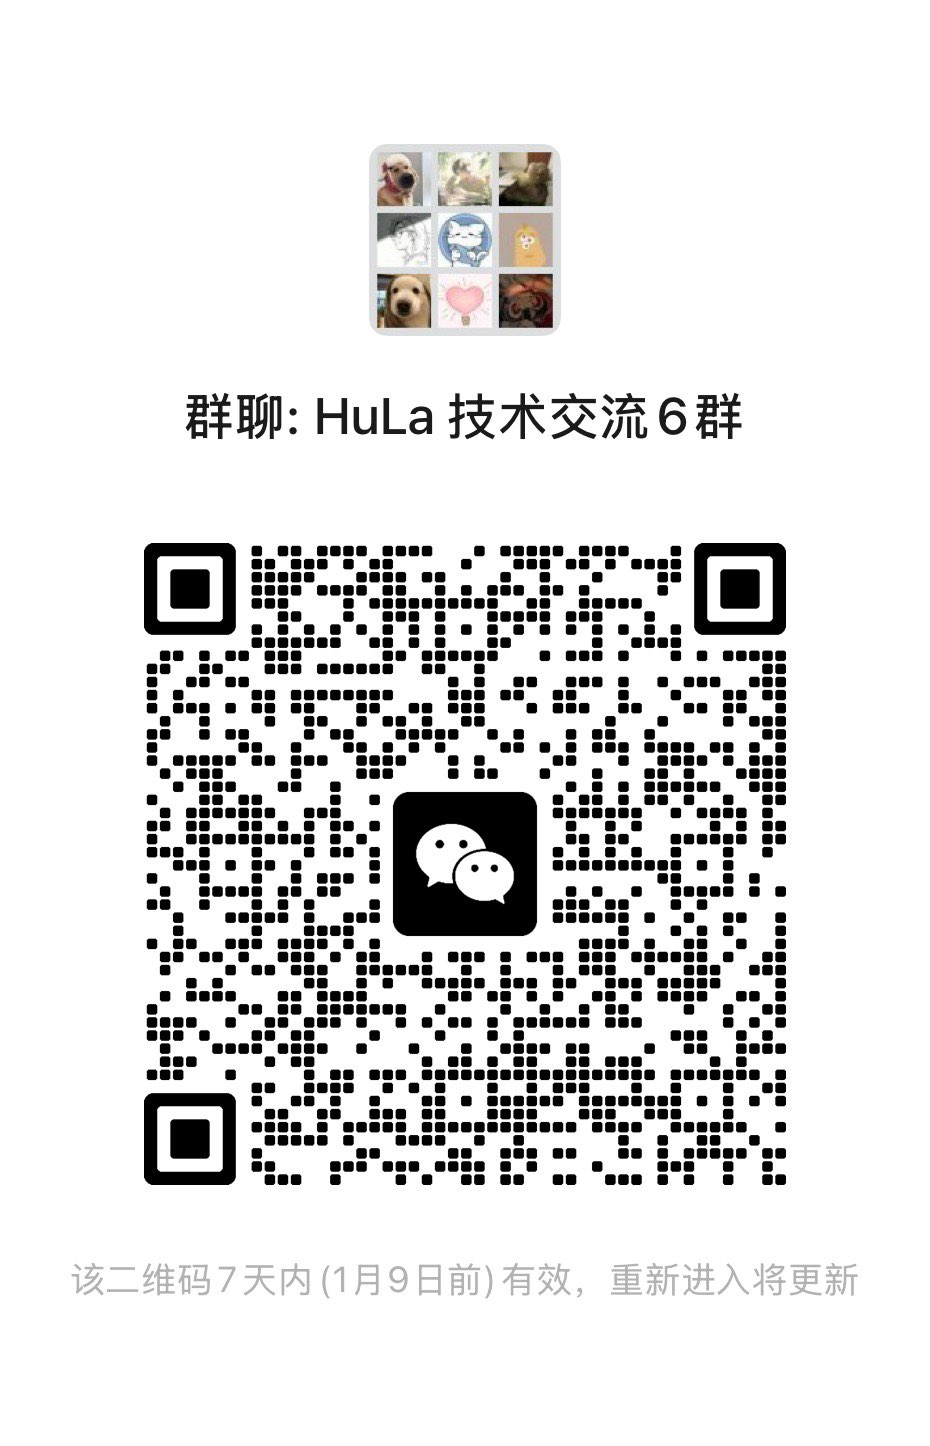
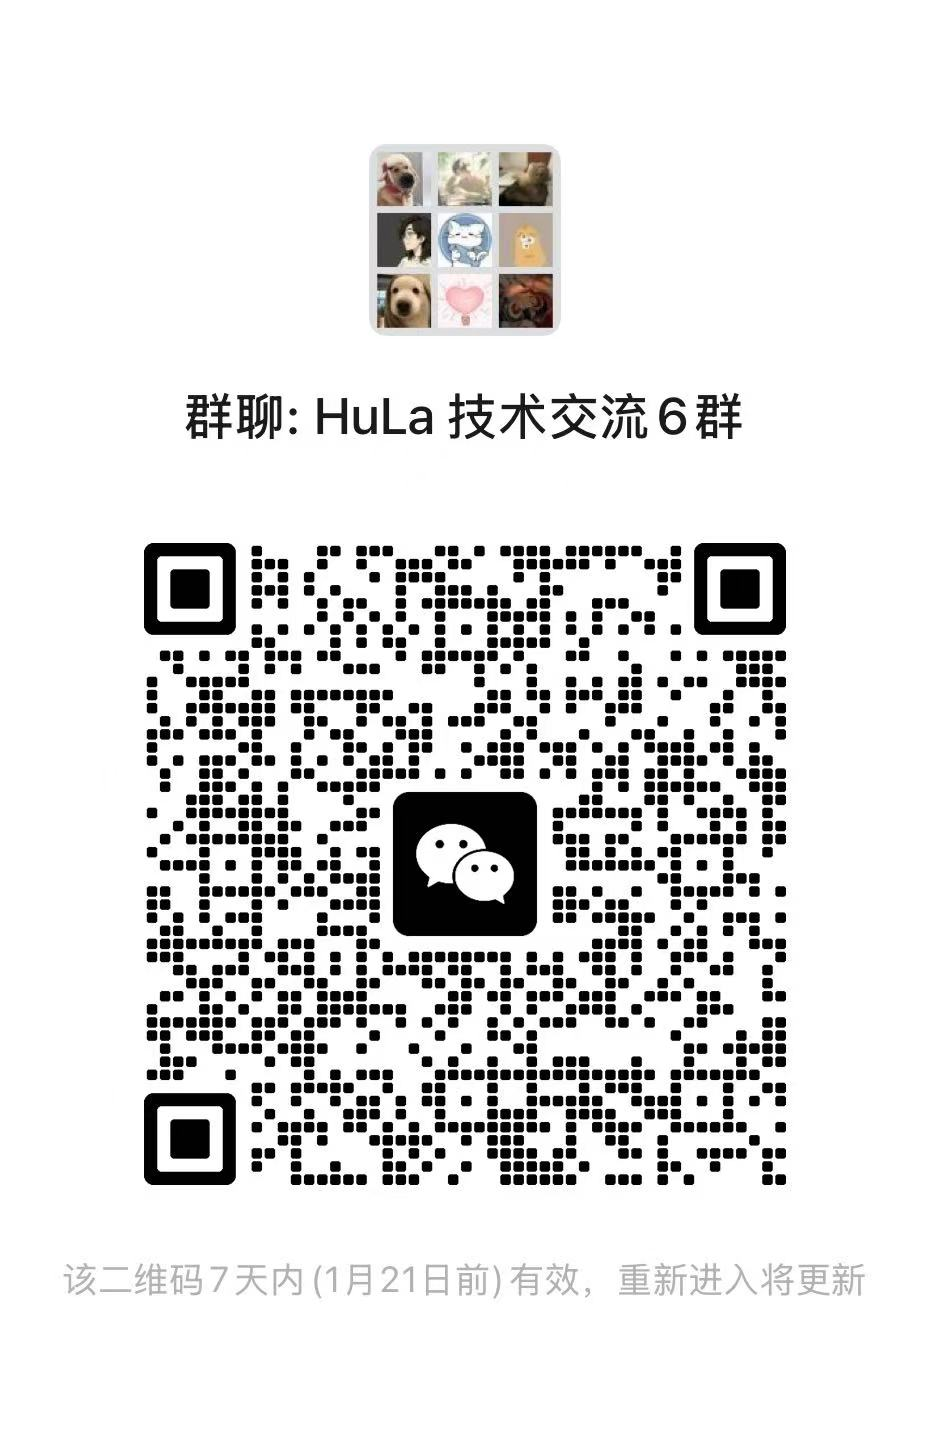
docs(doc): :memo: update QRcode and sponsorship list

diff --git a/README.md b/README.md
@@ -428,6 +428,8 @@ sudo xattr -r -d com.apple.quarantine /Applications/应用名称.app
 | 2025-11-5  | **匿名用户**         | `¥66`    | ![微信赞赏](https://img.shields.io/badge/微信赞赏-07C160?style=flat&logo=wechat&logoColor=white)  |
 | 2025-02-6  | **小二**             | `¥62`    | ![微信赞赏](https://img.shields.io/badge/微信赞赏-07C160?style=flat&logo=wechat&logoColor=white)  |
 | 2025-05-15 | **孤鸿影**           | `¥56`    | ![微信赞赏](https://img.shields.io/badge/微信赞赏-07C160?style=flat&logo=wechat&logoColor=white)  |
+| 2026-01-14 | **赵赫**           | `¥50`    | ![微信赞赏](https://img.shields.io/badge/微信赞赏-07C160?style=flat&logo=wechat&logoColor=white)  |
+| 2026-01-05 | **Dumbness**       | `¥50`    | ![微信赞赏](https://img.shields.io/badge/微信赞赏-07C160?style=flat&logo=wechat&logoColor=white)  |
 
 ### 🥉 铜牌赞助者 (￥20-49)
 

diff --git a/src-tauri/docs/README.md b/src-tauri/docs/README.md
@@ -427,6 +427,8 @@ sudo xattr -r -d com.apple.quarantine /Applications/应用名称.app
 | 2025-11-5  | **匿名用户**         | `¥66`    | ![微信赞赏](https://img.shields.io/badge/微信赞赏-07C160?style=flat&logo=wechat&logoColor=white)  |
 | 2025-02-6  | **小二**             | `¥62`    | ![微信赞赏](https://img.shields.io/badge/微信赞赏-07C160?style=flat&logo=wechat&logoColor=white)  |
 | 2025-05-15 | **孤鸿影**           | `¥56`    | ![微信赞赏](https://img.shields.io/badge/微信赞赏-07C160?style=flat&logo=wechat&logoColor=white)  |
+| 2026-01-14 | **赵赫**           | `¥50`    | ![微信赞赏](https://img.shields.io/badge/微信赞赏-07C160?style=flat&logo=wechat&logoColor=white)  |
+| 2026-01-05 | **Dumbness**       | `¥50`    | ![微信赞赏](https://img.shields.io/badge/微信赞赏-07C160?style=flat&logo=wechat&logoColor=white)  |
 
 ### 🥉 铜牌赞助者 (￥20-49)
 

diff --git a/README.en.md b/README.en.md
@@ -416,6 +416,8 @@ Execute **pnpm run commit** to invoke _git commit_ interaction, complete informa
 | 2025-11-5 | **匿名用户** | `¥66` | ![WeChat](https://img.shields.io/badge/WeChat-07C160?style=flat&logo=wechat&logoColor=white) |
 | 2025-02-6 | **小二** | `¥62` | ![WeChat](https://img.shields.io/badge/WeChat-07C160?style=flat&logo=wechat&logoColor=white) |
 | 2025-05-15 | **孤鸿影** | `¥56` | ![WeChat](https://img.shields.io/badge/WeChat-07C160?style=flat&logo=wechat&logoColor=white) |
+| 2026-01-14 | **赵赫** | `¥50` | ![WeChat](https://img.shields.io/badge/WeChat-07C160?style=flat&logo=wechat&logoColor=white) |
+| 2026-01-05 | **Dumbness** | `¥50` | ![WeChat](https://img.shields.io/badge/WeChat-07C160?style=flat&logo=wechat&logoColor=white) |
 
 ### 🥉 Bronze Sponsors ($3-7)
 | 💝 Date | 👤 Sponsor | 💰 Amount | 🏷 Platform |

diff --git a/src-tauri/docs/README.en.md b/src-tauri/docs/README.en.md
@@ -415,6 +415,8 @@ Execute **pnpm run commit** to invoke _git commit_ interaction, complete informa
 | 2025-11-5 | **匿名用户** | `¥66` | ![WeChat](https://img.shields.io/badge/WeChat-07C160?style=flat&logo=wechat&logoColor=white) |
 | 2025-02-6 | **小二** | `¥62` | ![WeChat](https://img.shields.io/badge/WeChat-07C160?style=flat&logo=wechat&logoColor=white) |
 | 2025-05-15 | **孤鸿影** | `¥56` | ![WeChat](https://img.shields.io/badge/WeChat-07C160?style=flat&logo=wechat&logoColor=white) |
+| 2026-01-14 | **赵赫** | `¥50` | ![WeChat](https://img.shields.io/badge/WeChat-07C160?style=flat&logo=wechat&logoColor=white) |
+| 2026-01-05 | **Dumbness** | `¥50` | ![WeChat](https://img.shields.io/badge/WeChat-07C160?style=flat&logo=wechat&logoColor=white) |
 
 ### 🥉 Bronze Sponsors ($3-7)
 | 💝 Date | 👤 Sponsor | 💰 Amount | 🏷 Platform |
